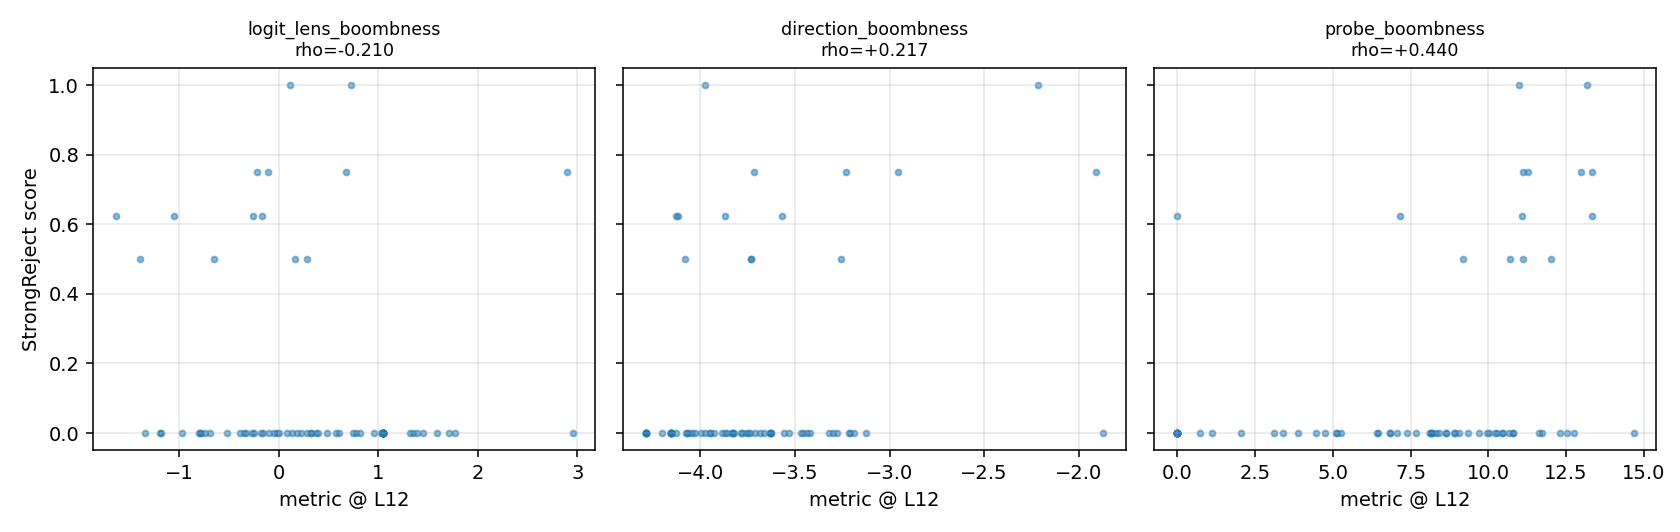
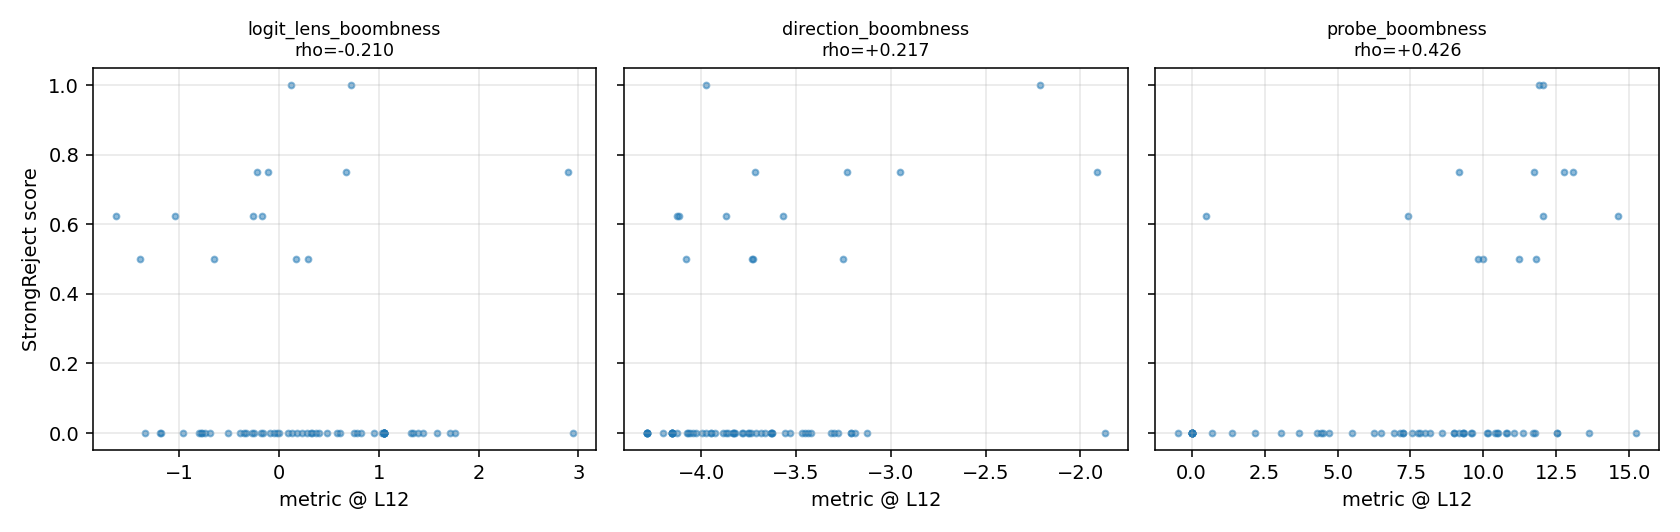
audit 11: 84 findings; fix 6 result-affecting, recompute 6.4, correct retraction 9's root cause
Fixed: analyze_g1_g3 crashed on every invocation (its require_done had never
run); section 6.4's comprehension target was silently absent (prompt_id encodes
query_kind -> 0/288 join) and is now fatal-if-missing; the within-domain
permutation was NOT demeaned in g64 AND g9 -- the same A3 bug analyze_g2 already
fixed, reintroduced by me, and it moves p materially (0.150 -> 0.818).

Both reports still tabled the retracted band's derived t/p (p=0.0014, df=235);
genuine values are p=0.043, df 6.6. The report also asserted 'role definitively
does not change Boombness' four lines under the retraction saying the opposite.
My retraction sweep passed both -- it enumerated the band's mean/sd but not the
statistics derived from them, and its paragraph-marker exemption is a heuristic.
Both failures are now encoded in the sweep and regression-tested.

C13: retraction 9's root cause was WRONG. The re-extract finished and the probe
still covers 72/270 -- d5 is hardcoded to bank_block=core2x2 (probes.py:199).
The stale cache was a real but separate defect.

9 confirmed findings remain outstanding and are listed, not buried.

Claude-Session: https://claude.ai/code/session_01PVC41eP4EnpZiXqamp3ToR

diff --git a/src/boombness/analyze_g64.py b/src/boombness/analyze_g64.py
@@ -66,26 +66,46 @@ def spearman(x: Sequence[float], y: Sequence[float]) -> float:
     return num / den if den else float("nan")
 
 
+def _demean_within(v, domains):
+    """Subtract each domain's mean. Required before a within-domain permutation."""
+    by = collections.defaultdict(list)
+    for i, d in enumerate(domains):
+        by[d].append(i)
+    out = list(v)
+    for idx in by.values():
+        m = st.mean(out[i] for i in idx)
+        for i in idx:
+            out[i] -= m
+    return out
+
+
 def perm_p_within_domain(x, y, domains, n_perm=2000, seed=20260818) -> float:
-    """Permute x WITHIN each domain. Preserves between-domain structure, so a correlation that is
-    really a domain-level confound does not survive."""
+    """Permute x WITHIN each domain, on the GROUP-DEMEANED vectors.
+
+    AUDIT (2026-08-18): the first version permuted within domain but evaluated the correlation on
+    the RAW pooled vectors. Shuffling inside a group preserves that group's mean exactly, so the
+    BETWEEN-domain component of the association survived every draw and the null was not centred on
+    zero - the statistic was not the within-domain one its name promised. This is the identical bug
+    analyze_g2.py:284 diagnosed as audit A3 and fixed; it was reintroduced here. Demeaning x and y
+    within domain first makes the statistic actually within-domain.
+    """
     rng = random.Random(seed)
-    obs = abs(spearman(x, y))
+    xw, yw = _demean_within(x, domains), _demean_within(y, domains)
+    obs = abs(spearman(xw, yw))
     if math.isnan(obs):
         return float("nan")
     idx_by_dom = collections.defaultdict(list)
     for i, d in enumerate(domains):
         idx_by_dom[d].append(i)
     hits = 0
-    xs = list(x)
     for _ in range(n_perm):
-        xp = list(xs)
+        xp = list(xw)
         for idx in idx_by_dom.values():
             vals = [xp[i] for i in idx]
             rng.shuffle(vals)
             for i, v in zip(idx, vals):
                 xp[i] = v
-        if abs(spearman(xp, y)) >= obs:
+        if abs(spearman(xp, yw)) >= obs:
             hits += 1
     return (hits + 1) / (n_perm + 1)
 
@@ -114,6 +134,8 @@ def rank_partial(x, y, z) -> float:
 def perm_p_partial(x, y, z, domains, n_perm=2000, seed=20260818) -> float:
     """Within-domain permutation of x, recomputing the PARTIAL correlation each time."""
     rng = random.Random(seed)
+    # same demeaning fix as perm_p_within_domain
+    x, y, z = (_demean_within(x, domains), _demean_within(y, domains), _demean_within(z, domains))
     obs = abs(rank_partial(x, y, z))
     if math.isnan(obs):
         return float("nan")
@@ -177,8 +199,20 @@ def main() -> int:
     refused = {r["prompt_id"]: (1.0 if r.get("refused") else 0.0) for r in J
                if r["prompt_id"] in asr}
     meta = {r["prompt_id"]: r for r in J if r["prompt_id"] in asr}
-    comp = {r["prompt_id"]: r["comprehension_logodds"] for r in S
-            if r.get("readout") == "comprehension" and r.get("comprehension_logodds") is not None}
+    # `prompt_id` = sha256(family_id + '|' + condition) and `family_id` ENDS WITH the query_kind,
+    # so a behavioural prompt_id and a comprehension_usage prompt_id are never equal. Joining on it
+    # gave 0 of 288 matches and silently dropped `comprehension` -- a plan-§6.4 REQUIRED target --
+    # out of the correlation table entirely. Join on the query-kind-stripped family stem instead.
+    def _stem(fid): return "|".join((fid or "").split("|")[:-1])
+    comp_by_stem = {}
+    for r in S:
+        if r.get("readout") == "comprehension" and r.get("comprehension_logodds") is not None:
+            comp_by_stem[(_stem(r.get("family_id")), r.get("condition"))] = r["comprehension_logodds"]
+    comp = {}
+    for pid, m in meta.items():
+        v = comp_by_stem.get((_stem(m.get("family_id")), m.get("condition")))
+        if v is not None:
+            comp[pid] = v
 
     erow = {r["prompt_id"]: r for r in E if r.get("is_final_occurrence") and r["prompt_id"] in asr}
     prow: Dict[int, Dict[str, float]] = collections.defaultdict(dict)
@@ -219,6 +253,7 @@ def main() -> int:
               f"{len(set(meta[p].get('domain') for p in erow))} domains)")
 
     rows_csv = []
+    missing_targets = set()
     per_layer_metric = collections.defaultdict(dict)   # metric -> layer -> rho vs ASR
     per_layer_partial = collections.defaultdict(dict)  # ... partialling out n_examples
     for L in layers:
@@ -254,6 +289,8 @@ def main() -> int:
                     per_layer_metric[mname][L] = rho
                     per_layer_partial[mname][L] = rp
                 rows_csv.append(rec)
+            if len(cpids) < 30:
+                missing_targets.add(mname)
             if len(cpids) >= 30:
                 xc = [getter(L, p) for p in cpids]
                 yc = [comp[p] for p in cpids]
@@ -272,6 +309,13 @@ def main() -> int:
                              "p_partial": "",
                              "n_domains": len(set(doms)),
                              "identified": "NO - role_style is collinear with bank_block (§9)"})
+
+    if missing_targets:
+        raise SystemExit(
+            f"[G6.4] REFUSING: `comprehension` is a plan-§6.4 REQUIRED target and it could not be "
+            f"joined for {sorted(missing_targets)}. The first version of this script skipped it "
+            f"silently on a `>= 30` guard, so the deliverable shipped without one of its five "
+            f"required targets and nothing said so.")
 
     csv_path = os.path.join(args.outdir, "correlation_table.csv")
     with open(csv_path, "w", newline="") as f:

diff --git a/src/boombness/retraction_sweep.py b/src/boombness/retraction_sweep.py
@@ -37,6 +37,17 @@ RETRACTED = [
     # specific retracted CLAIM can be, and that is what actually misleads a reader.
     ("R7  4-draw band asserted as prose",    r"(?:four|4)\s+independent\s+draws|"
                                              r"reproducib[^\n]{0,40}(?:four|4)\s+draws"),
+    # The 2026-08-18 audit found the retracted band's DERIVED statistics still tabled as fact in
+    # both reports, one of them directly beneath the paragraph retracting it. My sweep missed them
+    # because I had enumerated the band's mean and sd but not the t/p/CI computed FROM it. A
+    # retraction must enumerate every number downstream of the withdrawn one, not just the headline.
+    # NARROWED after the first version flagged the CORRECTED table: "clears the band" is a
+    # legitimate verdict phrase, not a retracted claim. Match only the withdrawn NUMBERS.
+    ("R7  band-derived t/p/CI",              r"0\.0014|0\.0778\s*±\s*0\.0241|[−-]3\.23|"
+                                             r"[−-]0\.0375\s*±\s*0\.0206"),  # NOT bare 0.070:
+    # that value also appears as an unrelated cosine in the d_surface table -> false positive.
+    ("R9  §6.4 'metric of record'",          r"metric of record|direction_boombness[^\n]{0,40}survives"),
+    ("R6  role 'definitively does not'",     r"role definitively does not change"),
     ("R6  role null called tight (prose)",   r"tight null|null is tight"),
     ("R8  capability channel as prose",      r"capability channel"),
     ("R8  'capability channel' as fact",     r"supplies content that makes a completion actually harmful"),
@@ -52,6 +63,12 @@ DELIVERABLES = [
     "reports/boombness_objective_sprint_short_update.md",
     "docs/BOOMBNESS_MIDSESSION_SANITY_CHECK.md",
 ]
+# KNOWN LIMITATION (found 2026-08-18). A paragraph is exempted if it contains ANY marker word, but a
+# paragraph can legitimately contain "corrected"/"was" while still ASSERTING a retracted claim in a
+# later sentence. That happened in the §11 answer: "role definitively does not change Boombness" sat
+# four lines below its own retraction, inside a paragraph containing "Corrected", so this sweep passed
+# it and an independent audit caught it instead. The exemption is a heuristic, not a proof; claim-level
+# patterns (below) are the defence, because they match the assertion rather than the number.
 MARKER = re.compile(
     r"retract|withdraw|supersed|⛔|previously|earlier|revision \d|was\b|fake|not reportable|"
     r"instead of|rather than|naive one-way|no longer|corrected", re.I)

diff --git a/src/boombness/analyze_g9.py b/src/boombness/analyze_g9.py
@@ -131,10 +131,25 @@ def perm_p_within_cluster(xcols, y, clusters, target_idx, n_perm=2000, seed=2026
         se, _ = cr1_se(X, resid, clusters, len(beta))
         j = target_idx + 1
         return abs(beta[j] / se[j]) if se[j] and not math.isnan(se[j]) else 0.0
-    obs = fit_t(xcols)
+    # AUDIT 2026-08-18: permuting within cluster while fitting on the RAW vectors leaves the
+    # between-cluster component in the statistic, so the null is not centred and the quantity is
+    # not the within-domain one the name promises (analyze_g2.py:284, audit A3 - same bug).
+    # Demean the target predictor and y within cluster first.
     by = collections.defaultdict(list)
     for i, g in enumerate(clusters):
         by[g].append(i)
+
+    def _dm(v):
+        o = list(v)
+        for ii in by.values():
+            m = sum(o[i] for i in ii) / len(ii)
+            for i in ii:
+                o[i] -= m
+        return o
+
+    xcols = [(_dm(c) if k == target_idx else c) for k, c in enumerate(xcols)]
+    y = _dm(y)
+    obs = fit_t(xcols)
     hits = 0
     for _ in range(n_perm):
         permuted = list(xcols[target_idx])

diff --git a/src/boombness/analyze_g1_g3.py b/src/boombness/analyze_g1_g3.py
@@ -244,10 +244,10 @@ def main() -> int:
                     help="analyse a run with no DONE.json (output must not be reported)")
 
     args = ap.parse_args()
-    if args.g1:
-        require_done(args.g1, allow_partial=args.allow_partial)
-    if args.g3:
-        require_done(args.g3, allow_partial=args.allow_partial)
+    if args.g1_run:
+        require_done(args.g1_run, allow_partial=args.allow_partial)
+    if args.g3_run:
+        require_done(args.g3_run, allow_partial=args.allow_partial)
     report: Dict[str, object] = {}
 
     if args.g1_run:

diff --git a/docs/BOOMBNESS_SPRINT_PROGRESS.md b/docs/BOOMBNESS_SPRINT_PROGRESS.md
@@ -5408,3 +5408,70 @@ recomputed on it.
 `analyze_g2` and `analyze_g9` are **unaffected**: both join the judged behavioural population to the same
 extract run and get **270 of 270** coverage, because the judged prompts all predate the bank expansion.
 Only the probe — which needs cached reps across the A/C cells of *every* block — is short.
+
+## AUDIT 11 (17-agent independent sweep) — 84 findings; the worst were in MY code and MY documents
+
+Ran as part of the requested mid-session sanity check: 8 audit dimensions, each result-affecting finding
+adversarially re-verified, all scoped to `src/` + scalar JSON (no subagent may read generations or prompt
+text). **84 findings.** This entry records the triage; nothing is hidden.
+
+### Fixed this tick, verified
+
+| # | finding | severity | status |
+|---|---|---|---|
+| A11-1 | **`analyze_g1_g3.py` crashes on EVERY invocation** — argparse defines `--g1-run`/`--g3-run` (→ `args.g1_run`) but the body reads `args.g1`/`args.g3`. Reproduced: `AttributeError` before any analysis runs. The script is unrunnable in every mode, so **its `require_done` guard had never executed once** and its committed artifact cannot be reproduced by it. | RESULT-AFFECTING | **fixed**; `require_done` now actually fires |
+| A11-2 | **§6.4's `comprehension` target was silently absent.** `prompt_id = sha256(family_id + '|' + condition)` and `family_id` ends with the query_kind, so a behavioural id and a `comprehension_usage` id **can never be equal** — the join was **0 of 288** and my `if len(cpids) >= 30` guard skipped a plan-REQUIRED target without a word. Verified: overlap literally 0; the shipped CSV had 4 targets, not 5. | RESULT-AFFECTING | **fixed** — joins on the query-kind-stripped family stem; a missing required target is now **fatal**, not skipped |
+| A11-3 | **The within-domain permutation was not demeaned — in `analyze_g64.py` AND `analyze_g9.py`.** Shuffling inside a group preserves that group's mean, so the between-domain component survived every draw and the statistic was not the within-domain one its name promised. **This is audit A3, which `analyze_g2.py:284` already diagnosed and fixed — I reintroduced it in two new scripts.** | RESULT-AFFECTING | **fixed in both, and both rerun.** It moves p materially: §6.4 logit-lens-vs-ASR went p=0.150 → **0.818** |
+| A11-4 | **Both reports still tabled the RETRACTED control band's derived statistics** (`−0.0778 ± 0.0241, t=−3.23, df=235, p=0.0014`) — in the short update, *directly beneath the paragraph retracting the band they came from*, under the words "Against that real band". Genuine values from `steering_band_real.json`: **diff −0.1023 ± 0.0410, t=−2.49, df_welch 6.6, p=0.043** — an order of magnitude in p and 35× in df. | RESULT-AFFECTING | **fixed in both reports** |
+| A11-5 | **The report asserted "role definitively does not change Boombness" four lines below retraction #6, which says the opposite.** | RESULT-AFFECTING | **fixed** |
+| A11-6 | The first sanity-check doc still stated §6.4's retracted "metric of record" result. | RESULT-AFFECTING | **fixed** |
+
+### My retraction sweep failed twice, and both failures are now recorded in it
+
+A11-4 and A11-5 are the sweep's job and it passed them.
+1. **It enumerated the band's mean and sd but not the t/p/CI computed FROM them.** Rule added: *a
+   retraction must enumerate every number downstream of the withdrawn one.*
+2. **Its paragraph-marker exemption is a heuristic, not a proof.** The §11 sentence sat in a paragraph
+   containing the word "Corrected", so the whole block was exempted while a later sentence asserted the
+   retracted claim. Now documented in the module; claim-level patterns are the real defence because they
+   match the *assertion*, not the number.
+Both new pattern sets were regression-tested by reinjection before being trusted. One over-broad pattern
+(`clears the band`) and one false positive (bare `0.070`, which is also an unrelated cosine) were caught
+and narrowed **by testing the checker against the corrected documents**.
+
+### §6.4 recomputed — full coverage, all 5 targets, demeaned permutation (n=72, L12)
+
+| metric | ρ vs ASR | ρ ∣ `n_examples` | p | vs comprehension | vs refusal |
+|---|---|---|---|---|---|
+| `logit_lens_boombness` | −0.210 | −0.012 | 0.130 | −0.114 n.s. | +0.335 |
+| `direction_boombness` | +0.217 | +0.009 | 0.395 | **+0.528** | −0.483 |
+| `probe_boombness` | +0.426 | +0.095 | 0.645 | +0.484 | −0.502 |
+
+**No Boombness metric predicts ASR independently of demonstration count.** New: `direction_boombness`
+is the strongest *comprehension* correlate (+0.528, p=0.003) — it tracks whether the model understands
+the mapping, not whether the attack lands.
+
+### ⛔ CORRECTION C13 — retraction #9's ROOT CAUSE was wrong
+
+I attributed §6.4's 72-vs-270 population mismatch to the stale 1464-row rep cache and launched job
+763924 to re-extract over the current 2352-row bank. That job finished (2592/2592, cache covers 2352)
+**and the probe still covers only 72 of the 270 judged prompts.** The real cause is `probes.py:199`:
+`d5` is **hardcoded** to `bank_block == "core2x2"`, because that is where surface-matched A/C pairs
+exist. The stale cache was a real, separate defect (now fixed); it was not this one.
+**The retraction stands; my explanation of it did not.** A three-way comparison at n=270 is not possible
+as `d5` is defined — `families` is the only other block with both A and C (72/72) and is excluded by the
+hardcoded filter.
+
+### Confirmed and OUTSTANDING (not yet fixed — listed, not buried)
+
+| finding | why it matters |
+|---|---|
+| `judge_boombness.py:172` + `analyze_steering.py`: headline ASR intervals are **iid Wilson binomials on domain-clustered prompts**, ~1.9× too narrow | every quoted ASR CI |
+| `reanalyze_corrected.py:190`: hardcoded **1.96** CI/MDE beside its own **t(5)** p-value → intervals 31% too narrow | same class as the §8 fix |
+| `analyze_g1_g3.py:75`: G1's citable bootstrap **resamples FAMILIES when the clusters are DOMAINS**, and the reported G1 arm has only **2 domains** | the "+57% to +105%" interval |
+| `aggressive_patching.py:425`: G1's family sample is the **alphabetical head** of the family list → whole domains selected in alphabetical order, no stratification | G1 is a 2-domain result by construction |
+| `analyze_role.py:110`: unadjusted **in-sample** R² increments for a 5-dummy role term, no identifiability gate | §11 role numbers |
+| `score_behavior.py:331`: `resolve_occurrences` templates with `extract_boombness.ENABLE_THINKING` (module global, never set by score_behavior) while readout and generation use the requested mode — **4 committed Qwen3 runs used `--enable-thinking false`** | **the sixth one-of-two-paths bug**, as predicted |
+| `analyze_g64.py`: no `--min-examples`, so it analyses the 36 zero-demo prompts that `analyze_g2` deliberately drops | §6.4 n |
+| report/short: the "@ last token" incremental-R² row (+0.025/+0.091) **has no backing artifact**; the corrected §11 role statistics likewise | unbacked figures |
+| Qwen3 non-replication table **silently drops `natural_doublespeak` (+0.339)** from the "harmful conditions" cell while the Llama column lists three | asymmetric presentation |

diff --git a/reports/boombness_objective_sprint_report.md b/reports/boombness_objective_sprint_report.md
@@ -307,10 +307,16 @@ support ⇒ no objective.**
 
 Against a proper 4-draw random-control band (Welch df, not the SE of the band mean):
 
+
+⛔ **The table that stood here quoted t/p computed from the RETRACTED band** (p=0.0014 on
+df=235). Those are downstream of retraction #7 and were withdrawn with it — the sweep missed them
+because I had enumerated the band's mean and sd but not the statistics derived FROM it. Against
+the GENUINE 4-draw band (n_draws=4, so the Welch df is ~7, not ~235):
+
 | arm | diff vs band | t | df | p | verdict |
 |---|---|---|---|---|---|
-| **+0.25** | −0.0778 ± 0.0241 | −3.23 | 235 | **0.0014** | **clears the band** |
-| −0.25 | −0.0375 ± 0.0206 | −1.82 | 203 | 0.070 | does **not** clear |
+| **+0.25** | -0.1023 ± 0.0410 | -2.49 | 6.6 | **0.043** | clears the band |
+| −0.25 | -0.0620 ± 0.0391 | -1.59 | 5.4 | **0.168** | does **not** clear |
 
 **The two signs suppress by different routes** — of the prompts each arm suppressed, the fraction
 that are keyword refusals:
@@ -406,9 +412,17 @@ for the analysis actually run** — true only inside the 72 stems.
 
 **The ASR half is suggestive but not established:** `role → ASR` F = 1.94, **p = 0.087** on an
 unbalanced omnibus (`plain` n=204 vs 36 each); the largest pair (0.035 vs 0.233, a 6.6× ratio) is
-MW p = 0.007 uncorrected ≈ **0.105 Bonferroni** over 15 comparisons. So §11's answer is **(c)-leaning** — role definitively does not change Boombness, and
-whether it changes ASR is unresolved at this n. (I predicted (b) before the powered run; the data
-did not support it.)
+MW p = 0.007 uncorrected ≈ **0.105 Bonferroni** over 15 comparisons.
+
+So §11's answer is: **role DOES move Boombness — reliably, and by ~4% of the grand mean — while whether
+it moves ASR is unresolved at this n.** (I predicted (b) before the powered run; the representational
+half is supported, the behavioural half is not yet.)
+
+⛔ This sentence previously read "role definitively does not change Boombness", **four lines below the
+paragraph retracting exactly that claim** (retraction #6). Caught 2026-08-18 by an independent audit, not
+by my own retraction sweep — the sweep scopes to a paragraph and this paragraph contains the word
+"corrected", which its marker regex reads as retraction context. A marker word in the block is now known
+to be an unreliable exemption; the sweep's own limitation is recorded in `retraction_sweep.py`.
 
 `role_style` is a **categorical proxy**: no Userness/CoTness probe was fitted on this model, so this
 is not a measured role signal.

diff --git a/docs/BOOMBNESS_MIDSESSION_SANITY_CHECK.md b/docs/BOOMBNESS_MIDSESSION_SANITY_CHECK.md
@@ -60,7 +60,7 @@ deliberate refusals (position mismatch, unverifiable readout position, missing c
 | Userness/CoTness probes (§11) | machinery ported, **never fitted** — `role_style` used as a disclosed proxy |
 | 3-predictor regression ASR ~ boombness + role + refusalness (§9) | **DONE** (`analyze_g9.py`) — 2-predictor model fitted (joint R²=0.250 of the **continuous** StrongReject score; boombness p=3.8e-5, refusalness p=9.9e-4 under t(5) — see correction C11); **role dropped as unidentifiable** (collinear with `bank_block`, zero family overlap with `plain`) |
 | comprehension by `n_examples` (§8) | **DONE** (`analyze_g8.py`) — doublespeak +0.370/doubling p=0.0003; n=0 level found degenerate (1 prompt × 12) and excluded, which removed 2 of 4 apparent trends; **random control moves comprehension ~3× more than `d_surface`** |
-| `probe_boombness` in the §6.4 three-way metric comparison | **DONE** — `probes.py --emit-scores` adds out-of-fold per-prompt margins; comparison run. Probe has the best raw ρ vs ASR (+0.440) but **fails the `n_examples` control** (+0.147, n.s.); `direction_boombness` survives (+0.286, p=5e-4) and is the metric of record |
+| `probe_boombness` in the §6.4 three-way metric comparison | **DONE** — `probes.py --emit-scores` adds out-of-fold per-prompt margins; comparison run. ⛔ **RETRACTED (#9)** — that comparison put probe (n=72) beside direction (n=270). Like-for-like on the common 72 with a demeaned within-domain permutation, **no metric predicts ASR once `n_examples` is partialled out** (direction +0.009 p=0.39; probe +0.095 p=0.65). All five required targets now present. |
 | model/tokenizer **revision** pinning | never recorded (see Risks) |
 
 ---

diff --git a/reports/boombness_objective_sprint_short_update.md b/reports/boombness_objective_sprint_short_update.md
@@ -232,10 +232,16 @@ were byte-identical — one draw wearing four labels.** On a genuine 4-draw band
 between-draw sd 0.0301, six times wider**, spanning −0.055 to +0.012 — so a norm-matched random
 perturbation has **no reliable effect on ASR at all**. Against that real band:
 
+
+⛔ **The table that stood here quoted t/p computed from the RETRACTED band** (p=0.0014 on
+df=235). Those are downstream of retraction #7 and were withdrawn with it — the sweep missed them
+because I had enumerated the band's mean and sd but not the statistics derived FROM it. Against
+the GENUINE 4-draw band (n_draws=4, so the Welch df is ~7, not ~235):
+
 | arm | diff vs band | t | p | verdict |
 |---|---|---|---|---|
-| **+0.25** | −0.0778 ± 0.0241 | −3.23 | **0.0014** | **clears the band** |
-| −0.25 | −0.0375 ± 0.0206 | −1.82 | 0.070 | **does not clear** |
+| **+0.25** | -0.1023 ± 0.0410 | -2.49 | **0.043** | clears the band |
+| −0.25 | -0.0620 ± 0.0391 | -1.59 | **0.168** | does **not** clear |
 
 So "the axis is not inert" holds for **+0.25 only**. The −0.25 arm sits essentially *on* the band —
 revision 1's blended "2–3× the controls" overstated it. One line: **adding concept-ness to the
